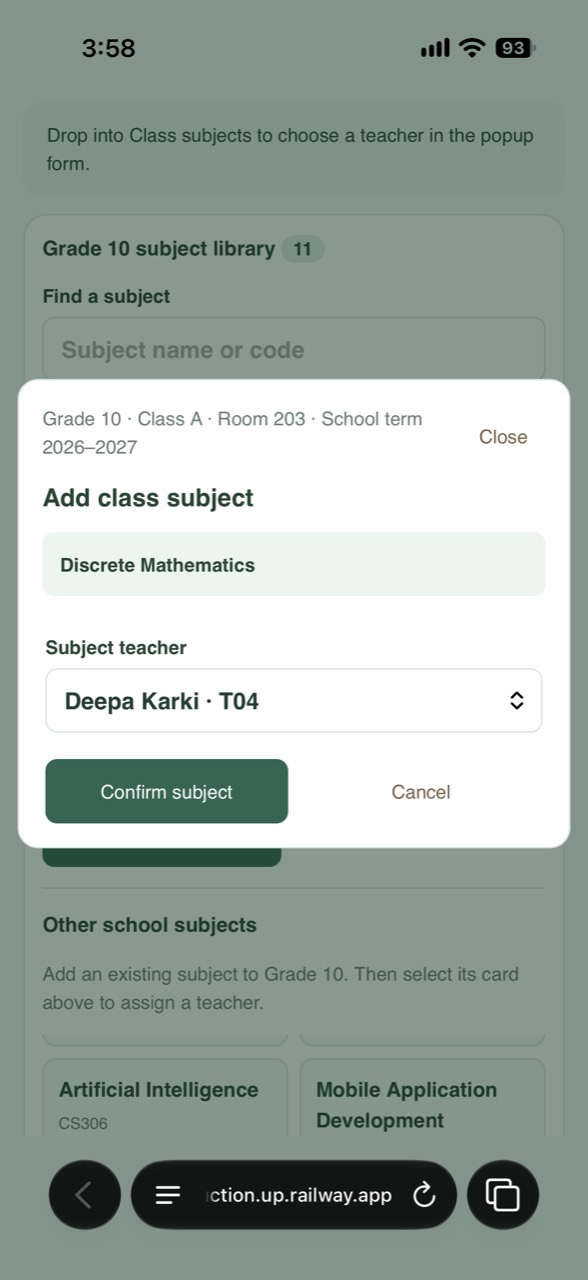
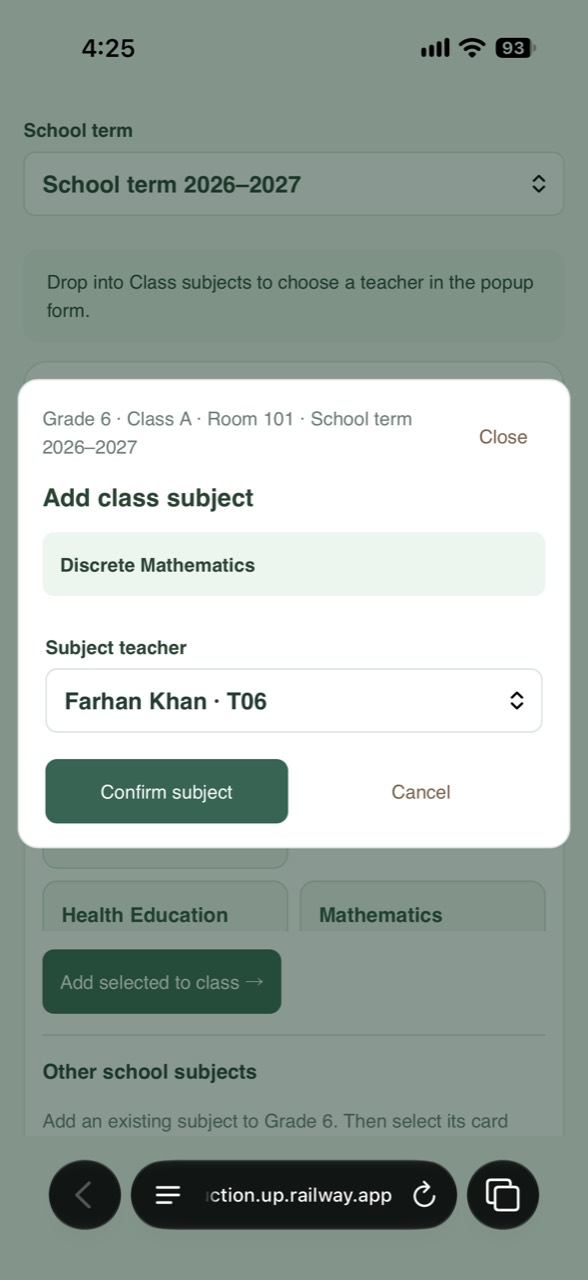
Correct Ansh Week 12 Grade 6 retest evidence

diff --git a/classroom/week12/ansh-subject-persistence-retest.md b/classroom/week12/ansh-subject-persistence-retest.md
@@ -18,45 +18,45 @@ An administrator can add an unused subject, choose a teacher, confirm the assign
 
 ## Retest conditions and steps
 
-1. Opened Grade 10 · Class A in Subjects & timetable on the deployed site.
+1. Opened Grade 6 · Class A (Room 101) in Subjects & timetable on the deployed site.
 2. Selected the unused subject Discrete Mathematics.
-3. Selected Deepa Karki (T04) as the subject teacher and confirmed the assignment.
-4. Confirmed that Discrete Mathematics with Deepa Karki appeared under Class subjects.
+3. Selected Farhan Khan (T06) as the subject teacher and confirmed the assignment.
+4. Confirmed that Discrete Mathematics with Farhan Khan appeared under Class subjects.
 5. Refreshed Safari, then checked the Class subjects list again.
 
 ## Actual result
 
-**Scoped retest passed.** Discrete Mathematics with Deepa Karki remained in the Grade 10 · Class A Class subjects list after the reported Safari refresh.
+**Scoped retest passed.** Discrete Mathematics with Farhan Khan remained in the Grade 6 · Class A Class subjects list after the reported Safari refresh.
 
 ## Severity and priority assessment
 
-**Severity:** Major
+**Severity:** Major (Week 11 observed failure)
 
 The Week 11 failure affected the core administrator subject-assignment workflow on iPhone Safari. A subject and teacher appeared saved but disappeared after refresh.
 
-**Priority:** P1 — At risk
+**Priority:** P2 — Important
 
-The Week 12 Grade 10 · Class A retest passed, but the original Grade 6 · Class A failure path has not yet been retested. The core workflow is therefore at risk rather than proven fully resolved. It is not classified as P0 because the application is not shown to be completely blocked, and it is not P2 because a confirmed earlier failure still needs follow-through.
+The Week 12 Grade 6 · Class A retest passed, so the current core path holds in this tested scope. The Week 11 failure remains valuable evidence, but it was not reproduced in the current retest. Follow-up is still important for reliability and issue review, but the evidence no longer supports a P1 claim that the promised workflow is currently at risk. It is not P0 because the application is not shown to be blocked.
 
 ## Screenshot evidence
 
 | Step | Observation | Evidence |
 | --- | --- | --- |
-| Before confirmation | The assignment form shows Discrete Mathematics and Deepa Karki (T04), ready to confirm. | [01-assignment-form.jpg](evidence/ansh-subject-persistence-retest/01-assignment-form.jpg) |
-| After confirmation | Discrete Mathematics appears under Class subjects with Deepa Karki. | [02-saved-before-refresh.jpg](evidence/ansh-subject-persistence-retest/02-saved-before-refresh.jpg) |
+| Before confirmation | The Grade 6 · Class A assignment form shows Discrete Mathematics and Farhan Khan (T06), ready to confirm. | [01-assignment-form.jpg](evidence/ansh-subject-persistence-retest/01-assignment-form.jpg) |
+| After confirmation | Discrete Mathematics appears under Class subjects with Farhan Khan. | [02-saved-before-refresh.jpg](evidence/ansh-subject-persistence-retest/02-saved-before-refresh.jpg) |
 | After refresh | The same subject and teacher remain visible in Class subjects. | [03-present-after-refresh.jpg](evidence/ansh-subject-persistence-retest/03-present-after-refresh.jpg) |
 
 ## Comparison with Week 11
 
-The Week 11 iPhone test found that Moral Education with Hari Adhikari disappeared after refresh in Grade 6 · Class A. This Week 12 retest used a different class, subject, and teacher, and the assignment remained after refresh.
+The Week 11 iPhone test found that Moral Education with Hari Adhikari disappeared after refresh in Grade 6 · Class A. This Week 12 retest returned to Grade 6 · Class A and found that Discrete Mathematics with Farhan Khan remained after refresh.
 
-This result shows that the persistence failure was **not reproduced in this tested Grade 10 · Class A scope**. It does not erase the Week 11 failure or prove every class/subject combination is fixed. The issue owner should review the deployed fix and decide whether the original Grade 6 · Class A path also needs a targeted retest before closing #83.
+This result shows that the persistence failure was **not reproduced in the tested Grade 6 · Class A scope**. It does not erase the Week 11 failure or prove every subject/teacher combination is fixed, because this retest used Discrete Mathematics with Farhan Khan rather than the earlier Moral Education/Hari Adhikari combination.
 
 ## Next action
 
 - Keep the Week 11 failure evidence linked from Issue #83.
-- Attach this scoped passing retest as current peer evidence.
-- The code owner should verify the deployed fix and choose whether to retest the original Grade 6 · Class A scenario or close the issue with this scope limitation recorded.
+- Attach this Grade 6 · Class A passing retest as current peer evidence.
+- The code owner should verify the deployed fix and decide whether an additional exact Moral Education/Hari Adhikari retest is needed before closing #83.
 
 ## AI-use note
 
